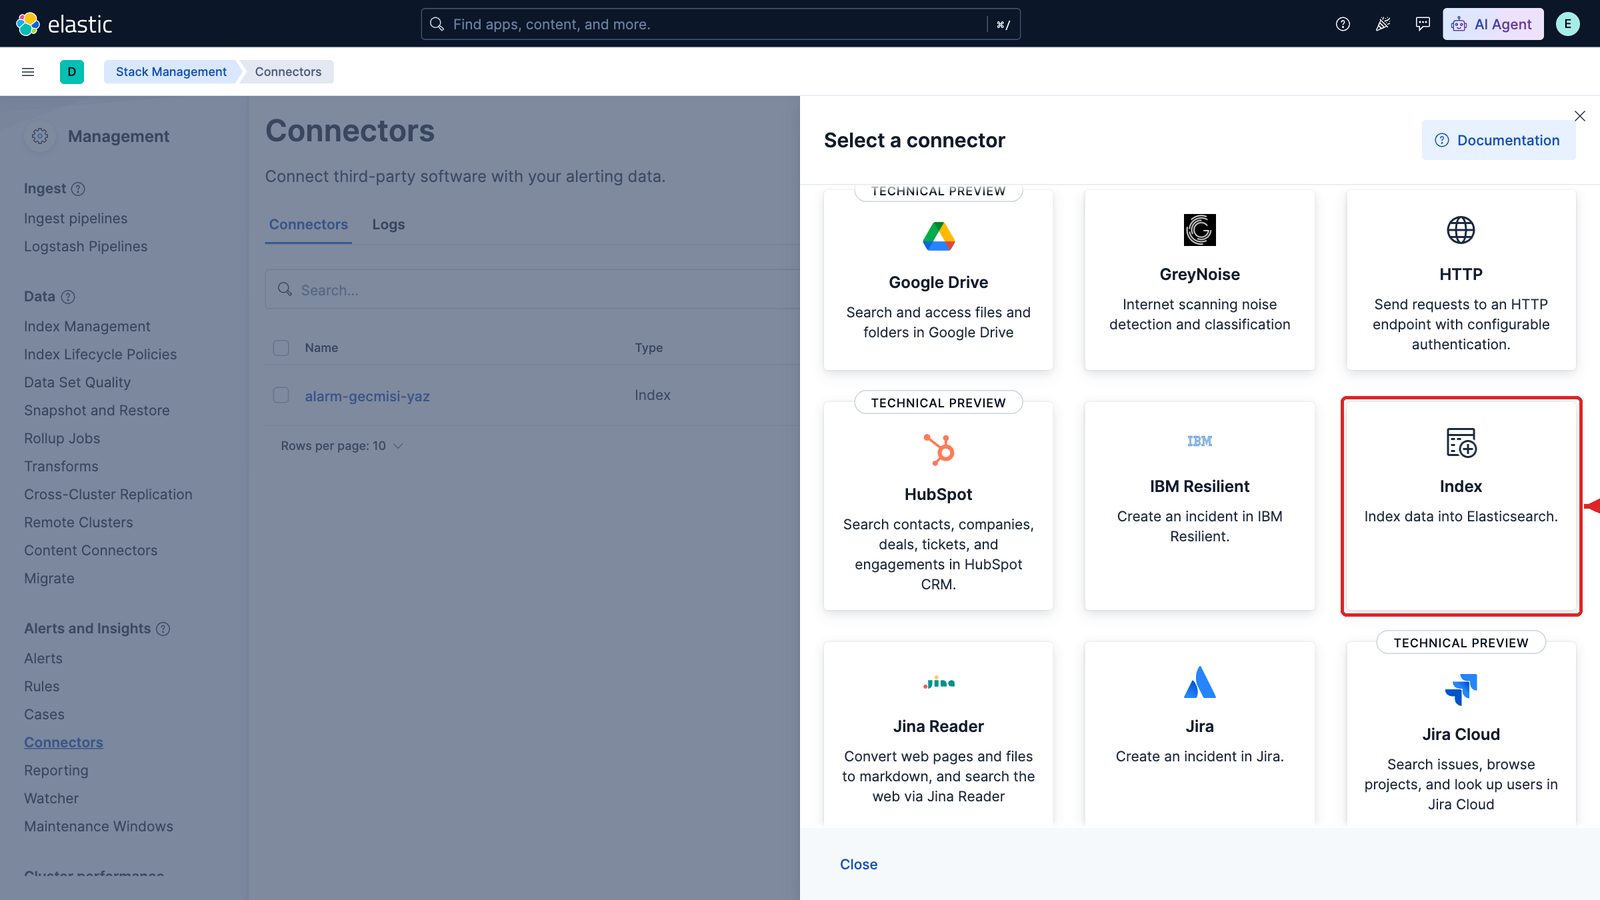
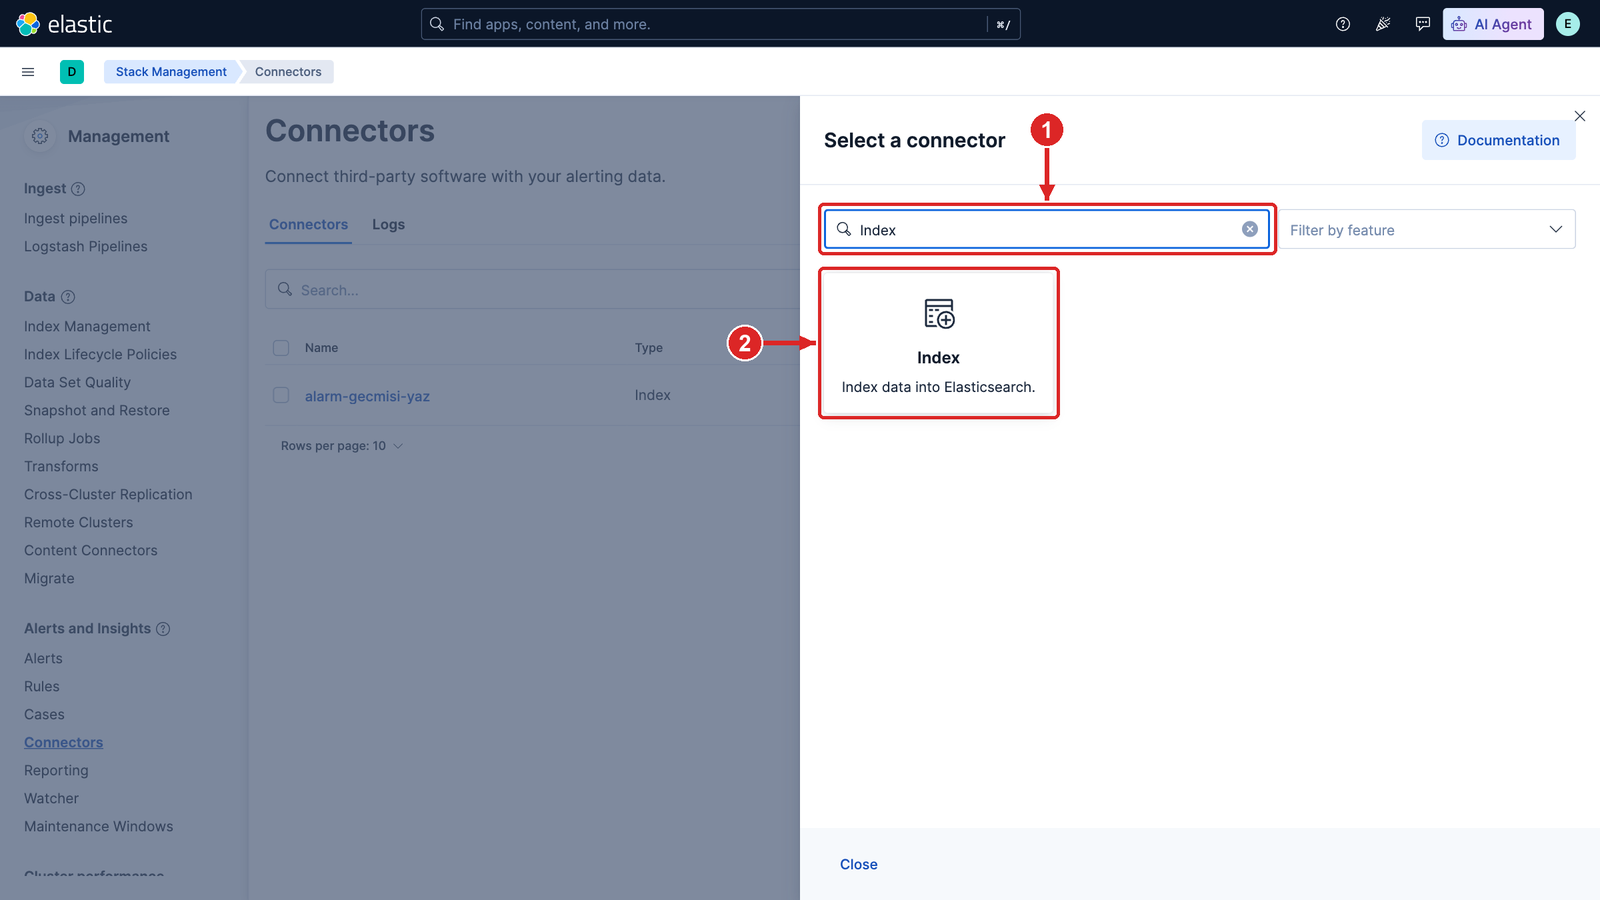
fix(LAB-18): teardown finds a UI-created rule and the Slack/e-mail connectors by name; connectors renamed alarm-slack / alarm-eposta
Partner review of 2b3cfb4:
- teardown.sh deleted only the rule id alarm-5xx; a rule created in the UI (random id) stayed and kept running.
  It now also deletes rules named "Ödeme 5xx patlaması" and connectors named alarm-slack / alarm-eposta
  (lines are printed only when such objects exist, so the command-path output in the README is unchanged).
- Slack/Email connector names used LAB-27's apache- prefix; renamed to the lab's own code (alarm-slack,
  alarm-eposta) in the README (§3 naming). Images 13/14 still show the old names; the partner retakes them.
- 03c: connector type search "Index" shown and marked; marker no longer outside the image.
- Temizlik text lists the extra objects.
bash -n teardown.sh OK; command blocks unchanged; not run on the server (nothing may be deleted there now).

diff --git a/scripts/screenshots/shots_lab18.py b/scripts/screenshots/shots_lab18.py
@@ -194,7 +194,9 @@ def baglayici_arayuz(page):
     olustur = page.get_by_role("button", name="Create connector").first
     shot(page, "03b-create-connector", [(isaretle(olustur, "cc"), 1, "left")])
     olustur.click(); time.sleep(3)
-    shot(page, "03c-index-turu", [(("css", '[data-test-subj=".index-card"]'), 1, "right")])
+    ara = page.locator('.euiFlyout input[type="search"], .euiFlyout [placeholder*="Search"]').first
+    ara.fill("Index"); time.sleep(1.5)
+    shot(page, "03c-index-turu", [(isaretle(ara, "ctara"), 1, "up"), (("css", '[data-test-subj=".index-card"]'), 2, "left")])
     page.locator('[data-test-subj=".index-card"]').first.click(); time.sleep(3)
     page.locator('[data-test-subj="nameInput"]').fill("alarm-gecmisi-yaz")
     page.locator('[data-test-subj="connectorIdInput"]').fill("alarm-gecmisi-yaz")

diff --git a/labs/LAB-18-alerting-raporlama/README.md b/labs/LAB-18-alerting-raporlama/README.md
@@ -170,9 +170,9 @@ POST kbn:/api/actions/connector/alarm-gecmisi-yaz
 
    ![Connectors: 1 Create connector](../../assets/screenshots/LAB-18/03b-create-connector.png)
 
-3. Connector türlerinden **Index** (1):
+3. Arama kutusuna (1) `Index` yazın, **Index** (2) kartını seçin:
 
-   ![Connector türü: 1 Index](../../assets/screenshots/LAB-18/03c-index-turu.png)
+   ![Connector türü: 1 arama, 2 Index](../../assets/screenshots/LAB-18/03c-index-turu.png)
 
 4. **Connector name** (1) `alarm-gecmisi-yaz`, **Connector ID** (2) `alarm-gecmisi-yaz`; **Index** (3) kutusuna
    `alarm-gecmisi` yazıp listeden seçin. **Save** (4):
@@ -469,7 +469,7 @@ Doğrulanmış bir alan adınız yoksa Resend yalnız hesabınızın e-posta adr
 
    ![Connector türü: 2 Slack](../../assets/screenshots/LAB-18/13a-connector-select-slack.png)
 
-3. **Webhook** sekmesinde **Connector name** (3) `apache-slack-alerts`, **Webhook URL** (4) Slack'ten kopyaladığınız
+3. **Webhook** sekmesinde **Connector name** (3) `alarm-slack`, **Webhook URL** (4) Slack'ten kopyaladığınız
    adres, **Save** (5):
 
    ![Slack connector: 3 Connector name, 4 Webhook URL, 5 Save](../../assets/screenshots/LAB-18/13-connector-create-slack.png)
@@ -484,7 +484,7 @@ Doğrulanmış bir alan adınız yoksa Resend yalnız hesabınızın e-posta adr
 
    | No | Alan | Değer |
    |---|---|---|
-   | 2 | Connector name | `apache-email-resend` |
+   | 2 | Connector name | `alarm-eposta` |
    | 3 | Sender | `onboarding@resend.dev` |
    | 4 | Service | `Other` |
    | 5 | Host / Port | `smtp.resend.com` / `587` |
@@ -509,8 +509,9 @@ Kurala ikinci bir action olarak eklenir; mesajda aynı değişkenler kullanılı
 
 ## Temizlik
 
-Yalnız bu labın kuralını, connector'ını, `alarm-apache` ve `alarm-gecmisi` index'lerini, şablonunu, data
-view'ını, haritasını ve panosunu siler; ana cluster'a dokunmaz. Reporting listesindeki rapor Kibana'nın kendi kaydıdır
+Yalnız bu labın kuralını (arayüzden kurulduysa adıyla bulunur), connector'larını (`alarm-gecmisi-yaz`; kurduysanız
+`alarm-slack` ve `alarm-eposta`), `alarm-apache` ve `alarm-gecmisi` index'lerini, şablonunu, data view'ını, haritasını
+ve panosunu siler; ana cluster'a dokunmaz. Reporting listesindeki rapor Kibana'nın kendi kaydıdır
 ve kalır:
 
 ```bash
